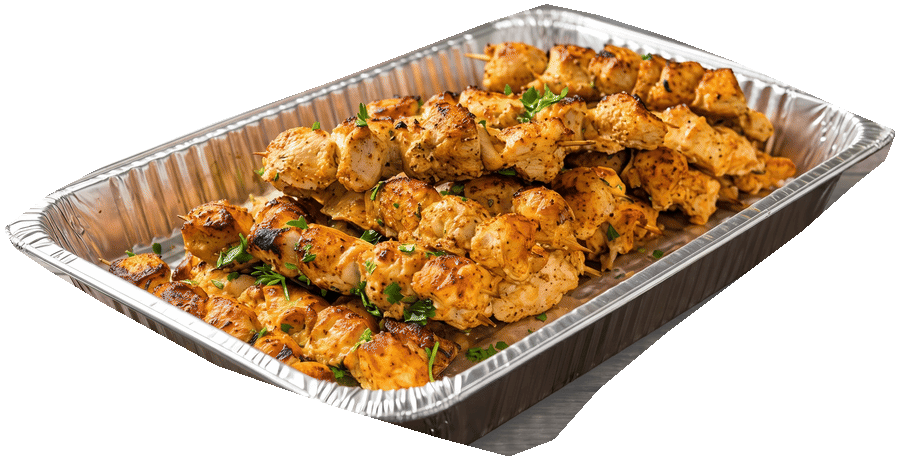
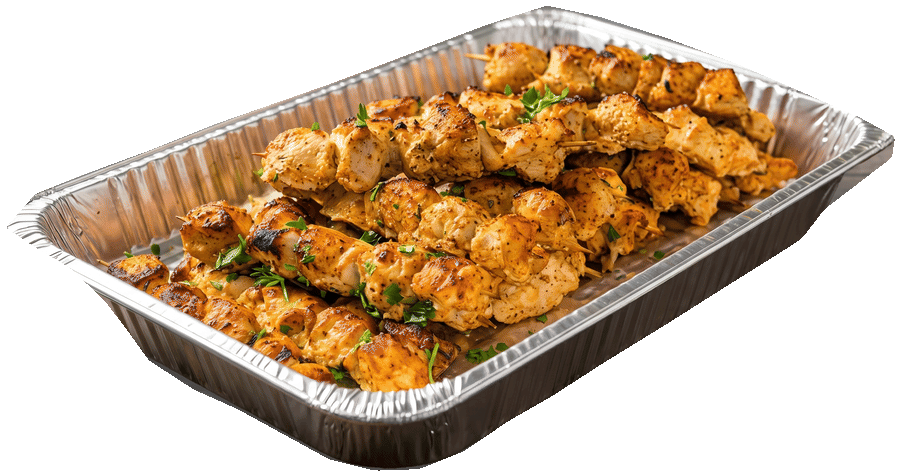
Re-cut the kebab tray, and put the hummus platter on its package card
THE KEBAB CUT-OUT. The dark wedge hanging off the front-right corner was
the wooden table in shadow, not the tray. I had read it as the tray's outer
wall and traced below it, so a slab of table came along with a hard
diagonal cut across it - which is what made the picture look pasted on.

The tray does have a dark outer wall, and it is only about 40px deep. It
turns up in a pixel probe as a clean run of near-black between the silver
rim and the grey table, and its lower edge traces straight across twenty
columns: y=430 at x=520 down to y=241 at x=820. The outline follows that
now rather than the shadow under it.

Two other things came out of re-tracing. The left tip was carrying a sliver
of table, because the tray's dark wall does not reach that far round and
the outline had been cut as though it did - the tray ends at the silver
there. And the alpha threshold went from 96 to 190, which erodes the edge
by about a pixel and takes with it the pale fringe of table colour that the
feathering had been leaving behind.

A focus-based segmentation was tried first, on the theory that the
background is out of focus and the tray is not. It is not true of this
photograph: the table is sharp as well, and the mask came back covering 66%
of the frame. Hand-traced it is.

THE HUMMUS PLATTER now also sits on the Hummus Dip Platter package card. It
is the same file as the one beside the Dips rows - one platter, one
photograph, in both places.
[…]

diff --git a/css/styles.css b/css/styles.css
@@ -2240,18 +2240,24 @@ body.nav-is-open { overflow: hidden; }
    no frame and no box. Only the Mediterranean Platter has one; the other two
    cards have no photograph and need no rule.
 
-   It is sized as a share of the card rather than cropped to a fixed height.
-   A cut-out has no spare background to crop into - object-fit: cover on one
-   would cut the rim off the platter - so it keeps its own proportions and
-   the card gets as tall as it needs to be.
+   IT IS NEVER CROPPED. A cut-out has no spare background to crop into -
+   object-fit: cover on one would cut the rim off the platter - so it keeps
+   its own proportions and the card gets as tall as it needs to be.
 
-   The negative bottom margin pulls the words up into the space the round
+   A CEILING ON BOTH SIDES, because the two cards that have a photograph do
+   not agree on shape: the Mediterranean platter is as good as square and the
+   hummus tray is tall. max-width alone would make the tall one enormous and
+   max-height alone would leave the square one small, so both are set and the
+   browser scales each picture down until it satisfies the pair.
+
+   The negative bottom margin pulls the words up into the space a round
    platter leaves at its corners, which would otherwise read as a gap. */
 .pkg-photo {
   display: block;
-  width: 62%;
-  max-width: 16rem;
+  width: auto;
   height: auto;
+  max-width: 68%;
+  max-height: 15rem;
   margin: 0 auto calc(var(--sp-6) * -1);
 }
 

diff --git a/catering.html b/catering.html
@@ -394,6 +394,13 @@
 
       <!-- ---------- PACKAGE 3 ---------- -->
       <article class="pkg">
+        <!-- ==== EDIT: HUMMUS DIP PLATTER PHOTO ====
+             The same cut-out that sits beside the Dips rows further down the
+             page. One file, two places: this card and that one are the same
+             platter, so they should not be two different photographs. -->
+        <img class="pkg-photo" src="assets/tray-hummus-platter.png"
+             alt="A tray of hummus with pita chips, cucumber, carrots, peppers and tomatoes"
+             width="560" height="910" loading="lazy" decoding="async">
         <div class="pkg-main">
           <span class="pkg-badge pkg-badge-new">New</span>
           <h3 class="pkg-name">Hummus Dip Platter</h3>
